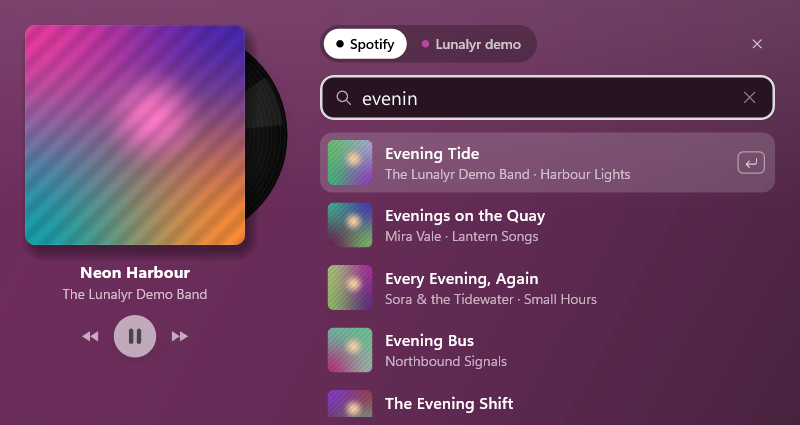
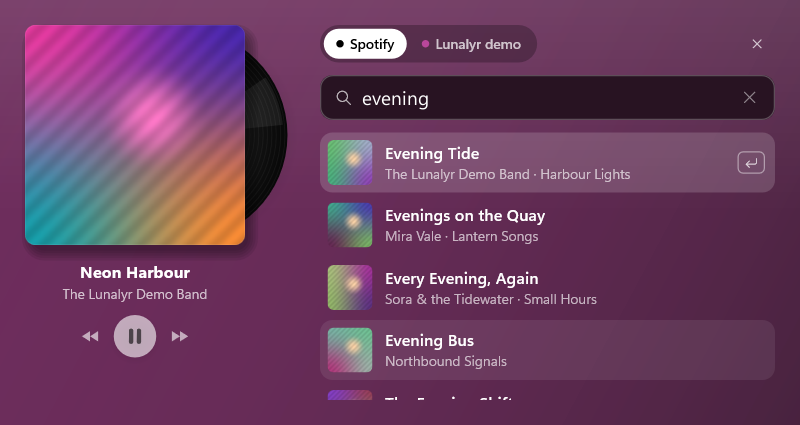
Desktop player: search follow-ups from the checks
- UI Automation's hit test reads the snapshot's rectangles (it runs on UIA's
  threads; the painter's hit list belongs to the UI thread).
- A player with no search no longer resets the search every second: the
  search and the queue's player change only when the player or its
  availability does.
- When the keyboard leaves through the search box for another app, Esc no
  longer hands it back to an older window later.
- Docs: what was checked with native UI Automation, window state, posted keys
  (under both message loops) and posted clicks; what wasn't (IME, clipboard,
  real input); the dark results preview recaptured.

diff --git a/windows/src/Lunalyr.App/Player/DesktopPlayer.Search.cs b/windows/src/Lunalyr.App/Player/DesktopPlayer.Search.cs
@@ -21,6 +21,8 @@ internal sealed unsafe partial class DesktopPlayer
     private string? _queueTrack;
     private float _cardHeightDip = CardPainter.Height;
     private bool _debugPaneOpened;
+    private (string? App, PlayerSearchAvailability Availability, string Name) _searcherKey;
+    private (string? App, PlayerSearchAvailability Availability) _queueKey = ("\0", default);
 
     /// <summary>The host's side of search and the queue; set before <see cref="Start"/>.</summary>
     public PlayerSearchSource Search { get; set; } = new();
@@ -62,6 +64,11 @@ internal sealed unsafe partial class DesktopPlayer
                 _interaction.SearchFocused = focused;
                 _model.FieldFocused = focused;
                 if (focused) _automation?.Focus(CardPart.SearchField);
+                // The keyboard left through the box for another app: Esc must not hand it back to an older window later.
+                else _post(() =>
+                {
+                    if (!HasKeyboard) _previousForeground = 0;
+                });
                 Invalidate();
                 StartFrames(16);
             };
@@ -111,8 +118,21 @@ internal sealed unsafe partial class DesktopPlayer
         }
 
         var (availability, searcher) = Search.For(_searchApp);
-        _search.SetSearcher(searcher);
-        _search.SetQueueSearcher(Search.QueueFor?.Invoke(playing) ?? Search.For(playing).Search);
+        // A player with no search is made afresh each time: only a different player or availability changes the search
+        // (setting it clears the results and searches again).
+        var key = (_searchApp?.AppId, availability, searcher.PlayerName);
+        if (key != _searcherKey)
+        {
+            _searcherKey = key;
+            _search.SetSearcher(searcher);
+        }
+
+        var queueKey = (playing?.AppId, availability);
+        if (queueKey != _queueKey)
+        {
+            _queueKey = queueKey;
+            _search.SetQueueSearcher(Search.QueueFor?.Invoke(playing) ?? Search.For(playing).Search);
+        }
         _model.Prompt = PlayerSearchPrompt.For(availability, _searchApp, Search.SpotifyOffReason());
         _model.Pickers = [.. apps.Select(a => a.DisplayName)];
         _model.PickerSelected = _searchApp is null ? -1 : apps.FindIndex(a => a.AppId == _searchApp.AppId);

diff --git a/windows/src/Lunalyr.App/Player/PlayerAutomation.cs b/windows/src/Lunalyr.App/Player/PlayerAutomation.cs
@@ -466,9 +466,15 @@ internal sealed unsafe partial class PlayerAutomation : IDisposable
 
         public nint ElementProviderFromPoint(double x, double y)
         {
+            // From the snapshot (UIA calls on its own threads; the card's hit list is the UI thread's).
             var s = owner.Snapshot;
-            var part = owner.Player.PartAtScreen(x, y);
-            return part == CardPart.None ? owner.RootFragment() : owner.Provider(part);
+            for (var i = s.Items.Count - 1; i >= 0; i--)
+            {
+                var r = PartRect(s, s.Items[i].Part);
+                if (r.Width > 0 && x >= r.Left && x < r.Left + r.Width && y >= r.Top && y < r.Top + r.Height) return owner.Provider(s.Items[i].Part);
+            }
+
+            return owner.RootFragment();
         }
 
         public nint GetFocus() => owner.Provider(owner.Snapshot.Focus);

diff --git a/windows/docs/milestones/M5.md b/windows/docs/milestones/M5.md
@@ -284,7 +284,7 @@ the guard, switching the search's player, the strip kept between songs, empty an
 the strip and the re-reads after it, history before the song playing, the prompts, Ctrl+Backspace (spaces, punctuation,
 Japanese, emoji), the redirect address in the steps, which client IDs are saved, and the demo search never playing.
 
-Ported from the Mac with the same inputs (9):
+Ported from the Mac with the same inputs (8):
 - `PlayerSleeveTests`: `testSearchAndQueueButtonsOpenAndClose`, `testATypedSearchStaysOpen` (the preview model's
   `loadPreview` becomes the public setters).
 - `DesktopScrubberTests` (`PlayerOptimismTests`): `testOptimisticNextOnlyWhenTheNextSongIsKnown` (the Mac's
@@ -318,8 +318,21 @@ The full suite: 1865 tests, 1864 passed and 1 skipped (as before this branch), t
   log says "Refused the play command to the demo search: playback commands are off (--demo)" and the card shows
   "Playback commands are off for this run." over the song. The foreground stayed with the owner's window the whole time
   (GetGUIThreadInfo); only Lunalyr's own thread moved its focus to the box.
-- The box's MSAA name is "Search Spotify", role editable text (42), value what is typed; the card's tree lists the
-  picker, Close search, the box, Clear search and seven results with their names and statuses.
+- The box through native UI Automation (`CUIAutomation.ElementFromHandle`, what Narrator uses, in a client process
+  with no managed proxies loaded): name "Search Spotify", control type Edit, Value pattern, value what is typed. Through
+  MSAA: the same name, role editable text. The card's tree lists the picker, Close search, the box, Clear search and
+  seven results with their names and statuses. (The managed `System.Windows.Automation` client shows the box as an
+  unnamed pane: its own client-side proxies, which Narrator doesn't use.)
+- The box on screen, read from window state with and without `top`: visible, not cloaked, layered alpha 255, directly
+  above the card in the z-order; without `top` the card is directly above `Progman` and under every app window.
+- Keys posted to the box (to Lunalyr's own window only): Ctrl+Backspace turned "evening shift" into "evening ", a posted
+  key-down for B became "evening b" (the loop translates key-downs), Backspace, ↓ (selection to the second result), Tab
+  (the keyboard back to the card), Esc (search cleared and closed), and ↓ Enter (the selected result's play refused
+  under the guard, the search closed). The key-down and Ctrl+Backspace were also checked with WinUI running
+  (`--settings-page about`), which is the only loop after the tray-flyout merge.
+- Mouse clicks posted to the card (button down and up at a point, so `PartAt` and the drawn rows' rectangles are used):
+  a result row (refused play), the queue button (the card grew to the queue's height, "Close queue" and the song
+  playing in the tree), and the picker's second player (selected, the prompt shown).
 - Settings, through UI Automation: the client ID box (a whole ID saved to `settings.json`, logged "Spotify: client ID
   changed."), the state moving from "Not set up" to "Not signed in", the steps, the off state under `--demo`, and the
   hover switch. Sign in was never pressed.
@@ -327,8 +340,14 @@ The full suite: 1865 tests, 1864 passed and 1 skipped (as before this branch), t
 
 ### Not verified / left
 
-- **Not seen:** a real IME composition (changing the keyboard layout is a Windows setting); Narrator's speech; real
-  Spotify search, covers, plays and queues (the rules forbid signing in or playing); the box over a contrast theme.
+- **Not seen:** a real IME composition (changing the keyboard layout is a Windows setting); Narrator's speech; the
+  clipboard (copy, cut and paste would touch the owner's clipboard; they are the stock EDIT's); real mouse, wheel and
+  keyboard input (posted messages and UI Automation only); real Spotify search, covers, plays and queues (the rules
+  forbid signing in or playing); the box over a contrast theme.
+- **One UI Automation check moved the foreground:** setting the box's value through the managed client made UI
+  Automation call SetFocus on it, which is allowed to take the foreground, so for about ten seconds Lunalyr's search box
+  was the foreground window. The values read back afterwards were exactly the posted ones, so none of the owner's typing
+  reached it. Later checks set the text with `query=` and posted messages instead.
 - **One settings check typed into the box by accident:** opening the settings window activates it, and a few keys the
   owner was typing ("hat ") reached the focused client ID box of a test instance (a temp data folder; part of an ID is
   never saved, so nothing was written). Later checks opened the window fewer times. Opening `--settings` in checks takes

diff --git a/windows/docs/APP-SHELL.md b/windows/docs/APP-SHELL.md
@@ -286,8 +286,10 @@ Why not the others:
 - **A windowless RichEdit** (`ITextServices`) draws into Direct2D, but needs a full `ITextHost` (40-odd methods) through
   source-generated COM and its own UI Automation wiring.
 
-Not seen: a real IME composition (switching the keyboard layout is a Windows setting) and Narrator's speech (it makes
-sound). Both rest on the stock EDIT; its MSAA name and value were read with a silent client.
+Checked with silent clients: native UI Automation reads the box as an Edit named "Search Spotify" with its value;
+keys posted to it type, delete a word and reach the card under both message loops (see M5.md). Not seen: a real IME
+composition (switching the keyboard layout is a Windows setting), the clipboard (it would touch the owner's) and
+Narrator's speech (it makes sound); all three are the stock EDIT's.
 
 ### Left for the next rounds
 
